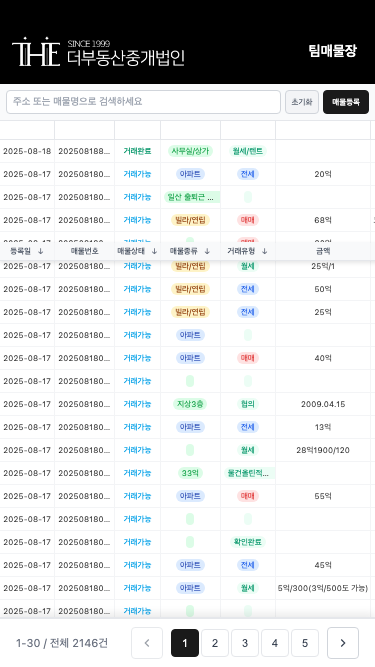
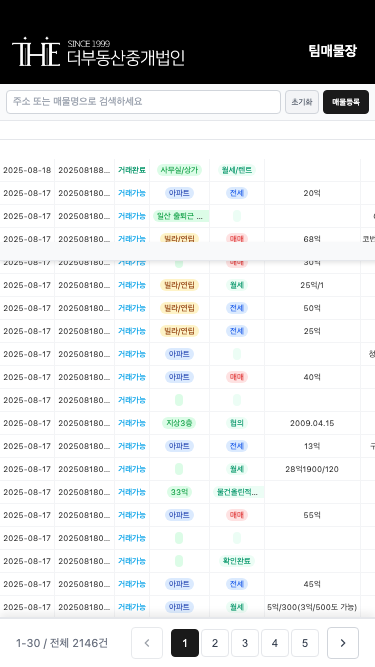
fix: 테이블 헤더를 position:absolute로 테이블 컨테이너 상단에 강제 고정
문제 해결:
- position:absolute로 테이블 컨테이너 내부 최상단(top:0)에 고정
- table-container에 padding-top 추가하여 헤더 공간 확보
- renderTable 함수에서 adjustTableHeaderPosition 호출 추가

🤖 Generated with [Claude Code](https://claude.ai/code)

diff --git a/playwright-report/index.html b/playwright-report/index.html
@@ -74,4 +74,4 @@ Error generating stack: `+u.message+`
   </body>
 </html>
 <script>
[2 lines of base64/hex data omitted]

diff --git a/styles.css b/styles.css
@@ -191,6 +191,7 @@ body {
     flex: 1 1 auto;
     overflow-y: scroll;
     padding-bottom: 70px; /* 고정 페이지네이션을 위한 하단 패딩 */
+    padding-top: 34px; /* 테이블 헤더 공간 확보 */
     overflow-x: auto;
     position: relative;
     -webkit-overflow-scrolling: touch; /* iOS 스크롤 부드럽게 */
@@ -205,23 +206,25 @@ body {
 }
 
 .data-table thead {
-    position: sticky !important;
-    top: 164px !important; /* 헤더(115px) + 필터바(49px) = 164px (실측정값) */
+    position: absolute !important;
+    top: 0 !important; /* 테이블 컨테이너 최상단 */
+    left: 0 !important;
+    right: 0 !important;
     z-index: 50 !important;
     background: #f8f9fa !important;
     box-shadow: 0 2px 4px rgba(0, 0, 0, 0.1) !important;
 }
 
-/* 모바일에서 헤더 아래에 테이블 헤더 고정 */
+/* 모바일에서도 테이블 컨테이너 상단에 고정 */
 @media (max-width: 768px) {
     .data-table thead {
-        top: 121px !important; /* 모바일 헤더(84px) + 모바일 필터바(37px) = 121px (실측정값) */
+        top: 0 !important; /* 테이블 컨테이너 최상단 */
     }
 }
 
 @media (max-width: 480px) {
     .data-table thead {
-        top: 121px !important; /* 소형 모바일 헤더(84px) + 소형 모바일 필터바(37px) = 121px (실측정값) */
+        top: 0 !important; /* 테이블 컨테이너 최상단 */
     }
 }
 

diff --git a/script.js b/script.js
@@ -4126,6 +4126,13 @@ let totalPages = 1;
 function renderTable(data) {
     const tbody = document.getElementById('tableBody');
     tbody.innerHTML = '';
+    
+    // 테이블 렌더링 후 헤더 위치 조정
+    setTimeout(() => {
+        if (typeof adjustTableHeaderPosition === 'function') {
+            adjustTableHeaderPosition();
+        }
+    }, 100);
 
     // 전체 데이터 수 업데이트
     const totalItems = data.length;
